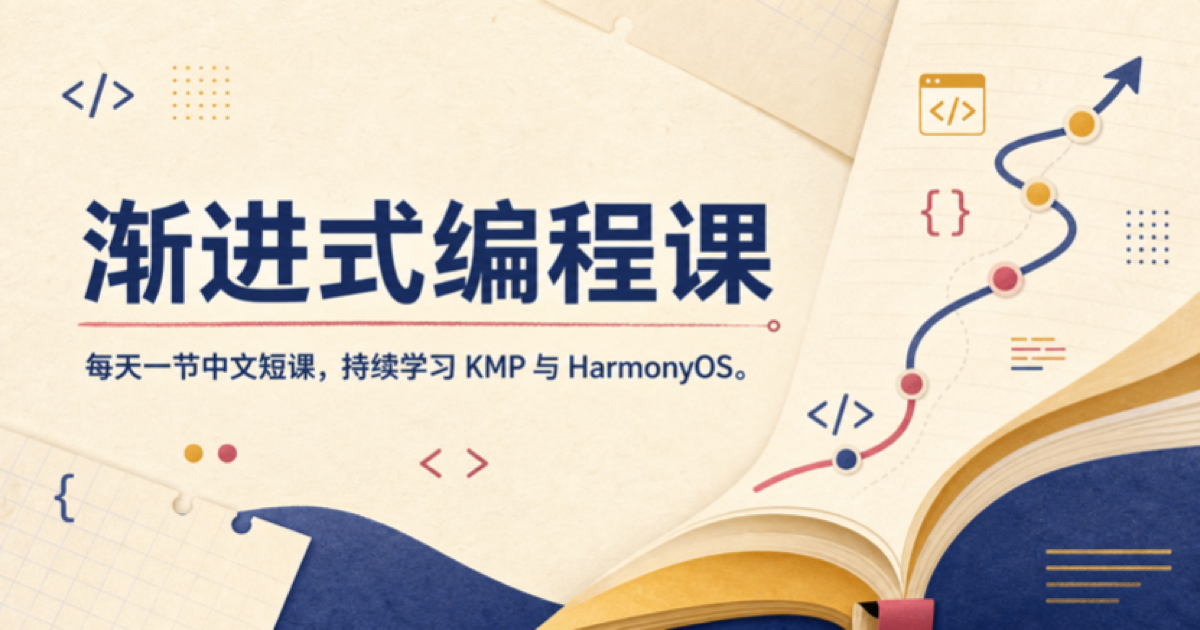
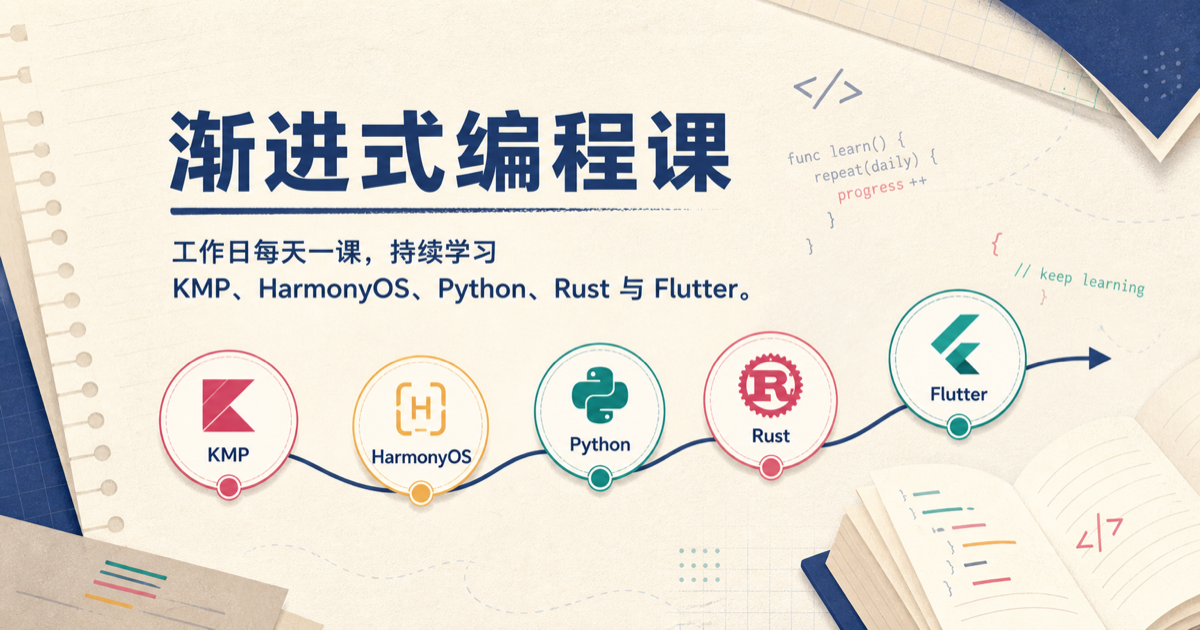
feat: add weekday five-track learning courses

diff --git a/app/page.tsx b/app/page.tsx
@@ -24,10 +24,6 @@ export default function Home() {
       lessons: lessons.length,
       latest: latest?.title.replace(/^第\s*\d+\s*课[:：]?\s*/, '') ?? '即将更新',
       updated: latest?.displayDate ?? '',
-      accent: slug === 'kmp' ? 'bg-indigo-600' : 'bg-rose-600',
-      surface: slug === 'kmp'
-        ? 'from-indigo-50 to-white dark:from-indigo-950/35 dark:to-card'
-        : 'from-rose-50 to-white dark:from-rose-950/35 dark:to-card',
     };
   });
   const totalLessons = tracks.reduce((total, track) => total + track.lessons, 0);
@@ -48,7 +44,7 @@ export default function Home() {
               <span className="text-primary">积累成真正的技术栈。</span>
             </h1>
             <p className="mt-6 max-w-2xl text-base leading-7 text-muted-foreground sm:text-lg">
-              KMP 与 HarmonyOS 渐进式学习档案。每课只聚焦一个主题，配有最小示例、动手练习和参考答案。
+              KMP、HarmonyOS、Python、Rust 与 Flutter 渐进式学习档案。每课只聚焦一个主题，配有最小示例、动手练习和参考答案。
             </p>
           </div>
           <div className="rounded-2xl border border-border/70 bg-card/80 p-5 shadow-sm backdrop-blur">
@@ -57,12 +53,12 @@ export default function Home() {
                 <Clock3 className="size-5" />
               </span>
               <div>
-                <p className="text-sm font-medium">日更学习节奏</p>
-                <p className="text-xs text-muted-foreground">鸿蒙 09:00 · KMP 10:00</p>
+                <p className="text-sm font-medium">工作日学习节奏</p>
+                <p className="text-xs text-muted-foreground">周一至周五 · 09:00</p>
               </div>
             </div>
             <p className="mt-4 text-sm leading-6 text-muted-foreground">
-              新课程会自动归档到对应路线，保留完整学习历史。
+              五条路线同步更新，周末休息，并保留完整学习历史。
             </p>
           </div>
         </div>
@@ -74,7 +70,7 @@ export default function Home() {
             <p className="text-sm font-medium text-primary">学习路线</p>
             <h2 className="mt-1 text-2xl font-semibold tracking-tight sm:text-3xl">从最新一课继续</h2>
           </div>
-          <p className="hidden text-sm text-muted-foreground sm:block">后续语言会以新的路线加入这里</p>
+          <p className="hidden text-sm text-muted-foreground sm:block">五条路线，每个工作日各推进一课</p>
         </div>
 
         <div className="grid gap-5 lg:grid-cols-2">

diff --git a/lib/lessons.ts b/lib/lessons.ts
@@ -7,7 +7,9 @@ export const trackConfigs = {
     shortName: 'KMP',
     eyebrow: '跨平台开发',
     description: '从共享源码集一路学到 Compose Multiplatform、ViewModel 与 Flow。',
-    color: 'indigo',
+    accent: 'bg-indigo-600',
+    surface: 'from-indigo-50 to-white dark:from-indigo-950/35 dark:to-card',
+    gradient: 'from-indigo-600 to-violet-600',
   },
   harmonyos: {
     slug: 'harmonyos',
@@ -15,7 +17,39 @@ export const trackConfigs = {
     shortName: '鸿蒙',
     eyebrow: '原生应用开发',
     description: '从 ArkUI 状态管理逐步进阶到数据服务、异步流程与 Hypium 测试。',
-    color: 'rose',
+    accent: 'bg-rose-600',
+    surface: 'from-rose-50 to-white dark:from-rose-950/35 dark:to-card',
+    gradient: 'from-rose-600 to-orange-500',
+  },
+  python: {
+    slug: 'python',
+    name: 'Python',
+    shortName: 'Python',
+    eyebrow: '通用编程',
+    description: '从语法与数据结构开始，逐步学习函数、模块、自动化与实际项目。',
+    accent: 'bg-amber-500',
+    surface: 'from-amber-50 to-white dark:from-amber-950/35 dark:to-card',
+    gradient: 'from-amber-500 to-yellow-500',
+  },
+  rust: {
+    slug: 'rust',
+    name: 'Rust',
+    shortName: 'Rust',
+    eyebrow: '系统编程',
+    description: '从变量与类型开始，逐步掌握所有权、错误处理、并发与工程实践。',
+    accent: 'bg-orange-600',
+    surface: 'from-orange-50 to-white dark:from-orange-950/35 dark:to-card',
+    gradient: 'from-orange-600 to-red-600',
+  },
+  flutter: {
+    slug: 'flutter',
+    name: 'Flutter',
+    shortName: 'Flutter',
+    eyebrow: '跨平台 UI',
+    description: '从 Widget 树开始，逐步学习布局、状态、导航、网络与应用架构。',
+    accent: 'bg-cyan-600',
+    surface: 'from-cyan-50 to-white dark:from-cyan-950/35 dark:to-card',
+    gradient: 'from-cyan-600 to-blue-600',
   },
 } as const;
 
@@ -75,7 +109,7 @@ const lessons = Object.entries(markdownModules)
   .filter(([path]) => !path.endsWith('/README.md'))
   .map(([path, rawContent]): Lesson => {
     const normalizedPath = path.replace(/\\/g, '/');
-    const match = normalizedPath.match(/content\/(kmp|harmonyos)\/([^/]+)\.md$/);
+    const match = normalizedPath.match(/content\/(kmp|harmonyos|python|rust|flutter)\/([^/]+)\.md$/);
     if (!match) throw new Error(`无法识别课程路径：${path}`);
 
     const track = match[1] as TrackSlug;

diff --git a/components/site-header.tsx b/components/site-header.tsx
@@ -1,6 +1,8 @@
 import Link from 'next/link';
 import { Code2, Search } from 'lucide-react';
 
+import { trackConfigs, type TrackSlug } from '@/lib/lessons';
+
 export function SiteHeader() {
   return (
     <header className="sticky top-0 z-30 border-b border-border/70 bg-background/90 backdrop-blur-xl">
@@ -11,9 +13,12 @@ export function SiteHeader() {
           </span>
           <span>渐进式编程课</span>
         </Link>
-        <nav className="ml-auto hidden items-center gap-5 text-sm sm:flex" aria-label="主要导航">
-          <Link href="/kmp" className="text-muted-foreground transition-colors hover:text-foreground">KMP</Link>
-          <Link href="/harmonyos" className="text-muted-foreground transition-colors hover:text-foreground">鸿蒙</Link>
+        <nav className="ml-auto hidden items-center gap-4 text-sm lg:flex" aria-label="主要导航">
+          {(Object.keys(trackConfigs) as TrackSlug[]).map((track) => (
+            <Link key={track} href={`/${track}`} className="text-muted-foreground transition-colors hover:text-foreground">
+              {trackConfigs[track].shortName}
+            </Link>
+          ))}
         </nav>
         <Link
           href="/search"

diff --git a/app/layout.tsx b/app/layout.tsx
@@ -18,10 +18,10 @@ export const metadata: Metadata = {
     default: '渐进式编程课',
     template: '%s · 渐进式编程课',
   },
-  description: '每天一节中文短课，持续学习 Kotlin Multiplatform 与 HarmonyOS 开发。',
+  description: '工作日每天一节中文短课，持续学习 KMP、HarmonyOS、Python、Rust 与 Flutter。',
   openGraph: {
     title: '渐进式编程课',
-    description: '每天一节中文短课，持续学习 KMP 与 HarmonyOS。',
+    description: '工作日每天一节中文短课，持续学习 KMP、HarmonyOS、Python、Rust 与 Flutter。',
     url: '/',
     siteName: '渐进式编程课',
     locale: 'zh_CN',
@@ -31,7 +31,7 @@ export const metadata: Metadata = {
   twitter: {
     card: 'summary_large_image',
     title: '渐进式编程课',
-    description: '每天一节中文短课，持续学习 KMP 与 HarmonyOS。',
+    description: '工作日每天一节中文短课，持续学习 KMP、HarmonyOS、Python、Rust 与 Flutter。',
     images: ['/og.png'],
   },
 };

diff --git a/app/[track]/page.tsx b/app/[track]/page.tsx
@@ -31,7 +31,6 @@ export default async function TrackPage({ params }: TrackPageProps) {
   const config = trackConfigs[track];
   const lessons = getLessons(track);
   const latest = lessons.at(-1);
-  const accent = track === 'kmp' ? 'from-indigo-600 to-violet-600' : 'from-rose-600 to-orange-500';
 
   return (
     <main className="min-h-screen">
@@ -47,7 +46,7 @@ export default async function TrackPage({ params }: TrackPageProps) {
               <h1 className="text-4xl font-semibold tracking-[-0.035em] sm:text-5xl">{config.name}</h1>
               <p className="mt-4 max-w-2xl text-base leading-7 text-muted-foreground">{config.description}</p>
             </div>
-            <div className={`rounded-2xl bg-gradient-to-br ${accent} p-5 text-white shadow-lg`}>
+            <div className={`rounded-2xl bg-gradient-to-br ${config.gradient} p-5 text-white shadow-lg`}>
               <div className="flex items-center gap-8">
                 <div>
                   <p className="text-3xl font-semibold">{lessons.length}</p>

diff --git a/app/search/page.tsx b/app/search/page.tsx
@@ -7,7 +7,7 @@ import { getLessons } from '@/lib/lessons';
 
 export const metadata = {
   title: '搜索课程',
-  description: '在 KMP 与 HarmonyOS 中文课程中搜索知识点和 API。',
+  description: '在五条渐进式中文课程中搜索知识点和 API。',
 };
 
 export default function SearchPage() {
@@ -21,7 +21,7 @@ export default function SearchPage() {
           <h1 className="text-4xl font-semibold tracking-[-0.035em]">搜索全部课程</h1>
           <p className="mt-3 text-muted-foreground">输入主题、API 或概念，从 {lessons.length} 节课程中快速定位。</p>
         </div>
-        <LessonBrowser lessons={lessons} placeholder="搜索 KMP、ArkUI、Flow、Hypium…" />
+        <LessonBrowser lessons={lessons} placeholder="搜索 KMP、ArkUI、Python、Rust、Flutter…" />
       </section>
       <SiteFooter />
     </main>

diff --git a/components/site-footer.tsx b/components/site-footer.tsx
@@ -2,8 +2,8 @@ export function SiteFooter() {
   return (
     <footer className="border-t border-border/70 py-8">
       <div className="mx-auto flex max-w-6xl flex-col gap-2 px-5 text-xs text-muted-foreground sm:flex-row sm:items-center sm:justify-between sm:px-8">
-        <p>每天一节中文短课，保留每一步学习轨迹。</p>
-        <p>KMP · HarmonyOS · 更多路线持续加入</p>
+        <p>每个工作日一节中文短课，保留每一步学习轨迹。</p>
+        <p>KMP · HarmonyOS · Python · Rust · Flutter</p>
       </div>
     </footer>
   );

diff --git a/content/flutter/2026-08-28-Widget与最小界面结构.md b/content/flutter/2026-08-28-Widget与最小界面结构.md
@@ -1,0 +1,66 @@
+# 第 1 课：Widget 与最小界面结构
+
+- 日期：2026-08-28
+- 课程序号：第 1 课
+- 知识点：Widget、`runApp()` 与最小 Flutter 页面
+
+## 知识点
+
+理解 Flutter 界面由 Widget 组合而成，并用 `runApp()` 启动一个最小应用。
+
+## 用途
+
+Widget 是 Flutter UI 的基本单元。文本、布局、按钮乃至整个页面都通过 Widget 树进行组合。
+
+## 核心概念
+
+- `main()` 是 Dart 程序入口。
+- `runApp()` 接收根 Widget，并把它挂载到屏幕。
+- `MaterialApp` 提供 Material Design 应用结构。
+- `Scaffold` 提供页面骨架，`Center` 和 `Text` 分别负责居中与显示文字。
+
+## 示例代码
+
+```dart
+import 'package:flutter/material.dart';
+
+void main() {
+  runApp(const StudyApp());
+}
+
+class StudyApp extends StatelessWidget {
+  const StudyApp({super.key});
+
+  @override
+  Widget build(BuildContext context) {
+    return const MaterialApp(
+      home: Scaffold(
+        body: Center(
+          child: Text('Flutter 第 1 课'),
+        ),
+      ),
+    );
+  }
+}
+```
+
+## 5 分钟练习
+
+把示例中的文字改成“我开始学习 Flutter”，并在 `Scaffold` 中增加标题为“学习计划”的 `AppBar`。
+
+## 参考答案
+
+```dart
+return MaterialApp(
+  home: Scaffold(
+    appBar: AppBar(title: const Text('学习计划')),
+    body: const Center(
+      child: Text('我开始学习 Flutter'),
+    ),
+  ),
+);
+```
+
+## 与上一课的联系
+
+这是 Flutter 路线的第一课。下一课将继续拆解 StatelessWidget 与 `build()` 的职责。

diff --git a/content/python/2026-08-28-变量基本类型与print.md b/content/python/2026-08-28-变量基本类型与print.md
@@ -1,0 +1,51 @@
+# 第 1 课：变量、基本类型与 print
+
+- 日期：2026-08-28
+- 课程序号：第 1 课
+- 知识点：变量、常用基本类型与 `print()` 输出
+
+## 知识点
+
+使用变量保存数据，认识字符串、整数、浮点数和布尔值，并用 `print()` 查看程序结果。
+
+## 用途
+
+变量是 Python 程序组织数据的起点。后续的判断、循环、函数和数据处理都会读取或修改变量。
+
+## 核心概念
+
+- Python 使用 `变量名 = 值` 创建变量，不需要提前声明类型。
+- `str` 表示文本，`int` 表示整数，`float` 表示小数，`bool` 表示真假。
+- `type()` 可以查看一个值当前的类型。
+- 变量名应表达含义，例如 `lesson_count`，不要只写难以理解的单字母。
+
+## 示例代码
+
+```python
+course_name = "Python"
+lesson_count = 1
+study_minutes = 10.0
+is_weekday = True
+
+print(course_name)
+print(f"第 {lesson_count} 课，学习 {study_minutes} 分钟")
+print(type(is_weekday))
+```
+
+## 5 分钟练习
+
+创建 `name`、`age` 和 `likes_coding` 三个变量，分别保存姓名、年龄和是否喜欢编程，然后用一条格式化字符串输出它们。
+
+## 参考答案
+
+```python
+name = "小明"
+age = 20
+likes_coding = True
+
+print(f"{name} 今年 {age} 岁，喜欢编程：{likes_coding}")
+```
+
+## 与上一课的联系
+
+这是 Python 路线的第一课。下一课将在这些变量之上学习输入、类型转换与简单计算。

diff --git a/content/rust/2026-08-28-变量绑定与可变性.md b/content/rust/2026-08-28-变量绑定与可变性.md
@@ -1,0 +1,55 @@
+# 第 1 课：变量绑定与可变性
+
+- 日期：2026-08-28
+- 课程序号：第 1 课
+- 知识点：`let` 变量绑定、默认不可变与 `mut`
+
+## 知识点
+
+使用 `let` 创建变量绑定，理解 Rust 为什么默认不可变，以及什么时候使用 `mut`。
+
+## 用途
+
+明确数据是否允许变化，可以让状态修改更容易追踪，也是理解 Rust 所有权和并发安全的基础。
+
+## 核心概念
+
+- `let name = value;` 创建变量绑定。
+- Rust 变量默认不可变，赋值后不能直接改写。
+- 确实需要修改时，在变量名前加 `mut`。
+- 语句通常以分号结束，`println!` 是输出文本的宏。
+
+## 示例代码
+
+```rust
+fn main() {
+    let course = "Rust";
+    let mut lesson_count = 1;
+
+    println!("课程：{course}，当前第 {lesson_count} 课");
+
+    lesson_count = 2;
+    println!("下一课编号：{lesson_count}");
+}
+```
+
+## 5 分钟练习
+
+创建不可变变量 `language` 和可变变量 `study_minutes`，先输出初始值，再把学习分钟数增加 5 后重新输出。
+
+## 参考答案
+
+```rust
+fn main() {
+    let language = "Rust";
+    let mut study_minutes = 10;
+
+    println!("{language}: {study_minutes} 分钟");
+    study_minutes += 5;
+    println!("{language}: {study_minutes} 分钟");
+}
+```
+
+## 与上一课的联系
+
+这是 Rust 路线的第一课。下一课将在变量绑定之上学习标量类型与显式类型标注。

diff --git a/content/python/README.md b/content/python/README.md
@@ -1,0 +1,5 @@
+# Python 学习笔记
+
+从零基础开始，每个工作日用一节短课逐步学习 Python。
+
+1. [2026-08-28：变量、基本类型与 print](2026-08-28-变量基本类型与print.md)——使用变量保存常见类型的数据，并通过 print 输出程序结果。

diff --git a/content/flutter/README.md b/content/flutter/README.md
@@ -1,0 +1,5 @@
+# Flutter 学习笔记
+
+从零基础开始，每个工作日用一节短课逐步学习 Flutter。
+
+1. [2026-08-28：Widget 与最小界面结构](2026-08-28-Widget与最小界面结构.md)——认识 Widget 树、runApp 与最小 Flutter 页面骨架。
